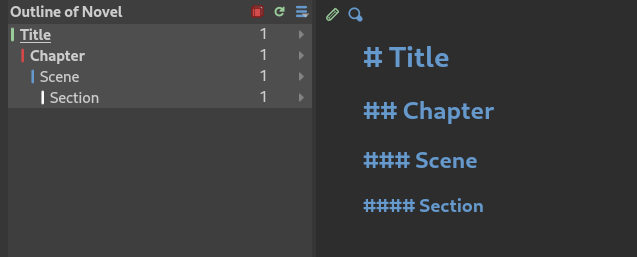
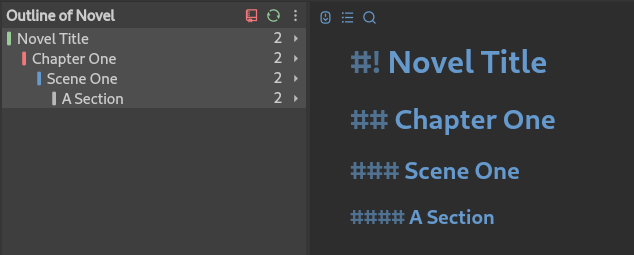
Update usage documentation and incorporate last usage file from old doc

diff --git a/docs/source/usage/organising_project.rst b/docs/source/usage/organising_project.rst
@@ -85,6 +85,10 @@ Root Folder Types
    The custom root folder type can be used for tracking anything else not covered by the above
    options.
 
+**Templates**
+   Any document added under this root folder will be made available as template options when
+   creating new documents. See :ref:`docs_usage_project_documents_templates` for more details.
+
 **Archive**
    If you don't want to delete a document, or put it in the **Trash** folder where it may be
    deleted, but still want it out of your main project, you can put it in this folder. The contents
@@ -120,21 +124,41 @@ documents.
 
 .. _docs_usage_project_documents:
 
-Project Documents
-=================
+Documents
+=========
 
-New documents can be created from the toolbar in the project tree, or by pressing :kbd:`Ctrl+N`.
-This will open the create new item menu and let you choose between a number of pre-defined
-documents and folders. You will be prompted for a label for the new item.
+You can add documents anywhere you want in your project structure. You can even add documents as
+child items of other documents, just like if they were folders. This makes it easy to associate a
+set of scenes with their chapter. You can also do this in your notes, where you for instance may
+have a hierarchy of your locations.
 
-You can always rename an item by selecting **Rename Item** from the **Project** menu, or by
-pressing :kbd:`F2` when a document or folder is selected.
+The name on a document in the project tree is not linked to any headings in the document text.
+Think of the document name as a file name. You can rename a document, or any other item in the
+project, at any time.
 
-Other settings for project documents and folders are available from the context menu that you can
-activate by right-clicking on an it in the tree. The **Transform** submenu includes options for
-converting, splitting, or merging documents. See :ref:`docs_ui_split_merge` for more details on
-the latter two.
 
+Documents come in two types:
+
+**Novel Documents**
+   These are the documents that make up your story or novel. They can only be added under a root
+   folder of type **Novel**. You can technically also add them under **Archive**. See
+   :ref:`docs_usage_headers` for more details about how these documents are handled by novelWriter.
+
+**Project Notes**
+   These are the documents where you keep your notes. You can add them anywhere in your project,
+   including under **Novel** type folders. If you do add them there, they are not treated as a part
+   of the story by default.
+
+You can convert between the two types of documents where the types are allowed. You can also
+convert folders into documents, which may sometimes be convenient.
+
+Another convenient feature is that documents can be split into sub-documents by its containing
+headings, or multiple documents merged into one. This is particularly convenient if you start out
+with larger structural documents, like one containing all chapters and scenes in an act, and then
+split those. See :ref:`docs_ui_split_merge` for more details.
+
+
+.. _docs_usage_project_documents_templates:
 
 Document Templates
 ------------------

diff --git a/docs/source/usage/front_back_matter.rst b/docs/source/usage/front_back_matter.rst
@@ -1,0 +1,77 @@
+.. _docs_usage_front_back_matter:
+
+*********************
+Front and Back Matter
+*********************
+
+Front and back matter documents are documents that go before and after your main story text. They
+can include pages like your cover page, content tables, prologues, epilogues, etc. These special
+pages and sections are supported to some extent by novelWriter.
+
+
+.. _docs_usage_front_back_matter_title:
+
+The Title Page
+==============
+
+It is recommended that you add a document at the very top of each **Novel** root folder with the
+novel title in it. You should modify the level 1 heading format code with an ``!`` in order to
+render it as a document title that is excluded from any automatic Table of Content in a manuscript
+build document.
+
+You can also add the author name and address above this if this is required by the manuscript
+format you use, and additional space added before the title.
+
+:bdg-info:`Example`
+
+This is the title page novelWriter generates automatically for a new project as of version 2.6:
+
+.. code-block:: md
+
+   Jane Doe[br]
+   Address Line 1[br]
+   Address Line 2 <<
+
+   [vspace:5]
+
+   #! My Novel
+
+   >> **By Jane Doe** <<
+
+   >> Word Count: [field:textWords] <<
+
+The title is by default centred on the page. You can add more text to the page as you wish, like
+for instance the author's name and details.
+
+
+.. _docs_usage_front_back_matter_pages:
+
+Additional Pages
+================
+
+If you want an additional page of text after the title page, starting on a fresh page, you can add
+``[new page]`` on a line by itself, and continue the text after it. This will insert a page break
+before the text. See :ref:`docs_usage_formatting_breaks` for more details.
+
+
+.. _docs_usage_front_back_matter_unnumbered:
+
+Unnumbered Chapters
+===================
+
+If you use the automatic numbering feature for your chapters, but you want to keep some special
+chapters separate from this, you can add an ``!`` to the level 2 heading formatting code to tell
+the build tool to skip these chapters when adding numbers.
+
+Unnumbered chapters are useful for prologue and epilogue chapters, and also for interlude chapters
+if you use those in your text. There is a separate formatting feature for such chapter titles in
+the **Manuscript Build** tool. See the :ref:`docs_ui_manuscript` page for more details.
+
+
+:bdg-info:`Example`
+
+.. code-block:: md
+
+   ##! Unnumbered Chapter Title
+
+   Chapter Text

diff --git a/docs/source/usage/chapters_and_scenes.rst b/docs/source/usage/chapters_and_scenes.rst
@@ -30,7 +30,10 @@ Heading Levels
 
    An illustration of how heading levels correspond to the novel structure.
 
-Four levels of headings are understood for novel documents:
+Four levels of headings are understood for novel documents. You can pick and choose from these as
+you want, but if your story has chapters, you should use these headings to indicate them. If you
+also add scene headings, you have better control of how your scene separators are formatted in your
+manuscript.
 
 ``# Title Text``
    This is a heading level one. This heading indicates the start of a new partition. Partitions are
@@ -40,7 +43,7 @@ Four levels of headings are understood for novel documents:
 ``## Chapter Title``
    This is a heading level two. This heading indicates the start of a new chapter. Chapter numbers
    can be inserted automatically when building the manuscript, so you don't have to do this in the
-   title. See :ref:`docs_manuscript_numbers` for more details.
+   title. See :ref:`docs_ui_manuscript_head_numbers` for more details.
 
 ``### Scene Title``
    This is a heading level three. This heading indicates the start of a new scene. Scene numbers or
@@ -72,13 +75,19 @@ may want to keep the use cases in mind while writing.
 ``###! Scene Title``
    This is an alternative scene heading that can be formatted differently in the **Manuscript
    Build** tool. It is intended for separating "soft" and "hard" scene breaks. Aside from this, it
-   behaves identically to a regular scene heading. See :ref:`docs_features_scene_breaks` for more
-   details.
+   behaves identically to a regular scene heading. See :ref:`docs_ui_manuscript_head_hard_soft`
+   for more details.
 
 The formatting of these headings can be customised quite extensively in the
-:ref:`Manuscript Tool <docs_manuscript>`, which is covered in a separate part of the documentation.
+:ref:`Manuscript Tool <docs_ui_manuscript>`, which is covered in a separate part of the
+documentation.
 
 .. note::
 
    The space after the ``#`` or ``!`` character is mandatory. The syntax highlighter will change
    colour and font size when the heading is correctly formatted.
+
+Page breaks can be automatically added before titles, partition, chapter and scene headings from
+the **Manuscript Build** tool when you build your project to a format that supports page breaks.
+If you want page breaks in other places, you have to specify them manually.
+See :ref:`docs_usage_formatting_breaks` for more details.

diff --git a/docs/source/user_interface/manuscript.rst b/docs/source/user_interface/manuscript.rst
@@ -110,8 +110,51 @@ selecting one will insert it at the position of the cursor.
 Any text you add that isn't highlighted in colours will remain in your formatted titles.
 ``{Title}`` will always be replaced by the text in the heading from your documents.
 
+.. csv-table:: Heading Formats
+   :header: "Code", "Description"
+   :class: "tight-table"
+
+   "``{BR}``",             "Insert a line break."
+   "``{Title}``",          "Insert the original title text."
+   "``{Chapter}``",        "Insert a chapter number."
+   "``{Chapter:Word}``",   "Insert a chapter number as a word."
+   "``{Chapter:URoman}``", "Insert a chapter number as an upper case Roman numeral."
+   "``{Chapter:LRoman}``", "Insert a chapter number as an lower case Roman numeral."
+   "``{Scene}``",          "Insert a scene number within the current chapter."
+   "``{Scene:Abs}``",      "Insert a scene number unique to the whole manuscript."
+   "``{Char:POV}``",       "Insert the point-of-view character's :ref:`display name <docs_usage_tags_refs_tags>`."
+   "``{Char:Focus}``",     "Insert the focus character's :ref:`display name <docs_usage_tags_refs_tags>`."
+
 You can preview the result of these format strings by clicking :guilabel:`Apply`, and then clicking
 :guilabel:`Preview` in the **Manuscript Build** tool main window.
+
+
+.. _docs_ui_manuscript_head_numbers:
+
+Automatic Numbering
+^^^^^^^^^^^^^^^^^^^
+
+The headings formatter also allows you to automatically insert chapter and scene numbers into your
+heading formats. The automatic chapter number counter will skip all chapter headings marked as
+unnumbered using the heading format described in :ref:`docs_usage_headers_levels`.
+
+Scene numbers are mostly intended for use in a draft manuscript. You can either insert absolute
+scene numbers that counts every scene in the novel, or you can insert per-chapter scene numbers
+that reset to 1 for each chapter.
+
+:bdg-info:`Example`
+
+This will create a chapter title on the format "Chapter 1: Title Text":
+
+.. code-block:: md
+
+   Chapter {Chapter}: {Title}
+
+This will create a scene title on the format "Scene 1.1: Title Text":
+
+.. code-block:: md
+
+   Scene {Chapter}.{Scene}: {Title}
 
 
 Scene Separators
@@ -127,7 +170,7 @@ the desired separator text as the format. If the format is any piece of static t
 be treated as a separator.
 
 
-.. _docs_ui_manuscript_head_hard:
+.. _docs_ui_manuscript_head_hard_soft:
 
 Hard and Soft Scenes
 ^^^^^^^^^^^^^^^^^^^^

diff --git a/docs/source/index.rst b/docs/source/index.rst
@@ -34,10 +34,9 @@ storage for robustness.
 
    Main Page <self>
    More Documents <https://novelwriter.io/more/>
-   howto
 
 .. toctree::
-   :caption: Using novelWriter
+   :caption: Getting Started
    :hidden:
 
    usage/introduction
@@ -48,12 +47,13 @@ storage for robustness.
    usage/tags_and_references
    usage/alignment_and_indent
    usage/advanced_formatting
+   usage/front_back_matter
+   usage/howto
 
 .. toctree::
    :caption: The User Interface
    :hidden:
 
-   user_interface/introduction
    user_interface/projects
    user_interface/editor_viewer
    user_interface/split_and_merge

diff --git a/docs/source/usage/basic_formatting.rst b/docs/source/usage/basic_formatting.rst
@@ -25,7 +25,7 @@ paragraph.
 
 It is important that you actually follow this rule. You should not, for instance, mimic indented
 paragraphs manually in the editor. This, and a lot of other formatting options that can be
-applied to text paragraphs in the :ref:`Manuscript Tool <docs_manuscript>` depends on paragraphs
+applied to text paragraphs in the :ref:`Manuscript Tool <docs_ui_manuscript>` depends on paragraphs
 being separated by blank lines.
 
 :bdg-success:`Correct`

diff --git a/docs/source/usage/comments.rst b/docs/source/usage/comments.rst
@@ -158,6 +158,6 @@ on your keyboard with your cursor somewhere in the paragraph.
 
    ### Scene
 
-   %~ This text is completely ignored.
+   %~ This text is ignored.
 
    This text is a regular paragraph.

diff --git a/docs/source/usage/howto.rst b/docs/source/usage/howto.rst
@@ -1,4 +1,4 @@
-.. _docs_more_howto:
+.. _docs_usage_howto:
 
 *************
 Tips & Tricks
